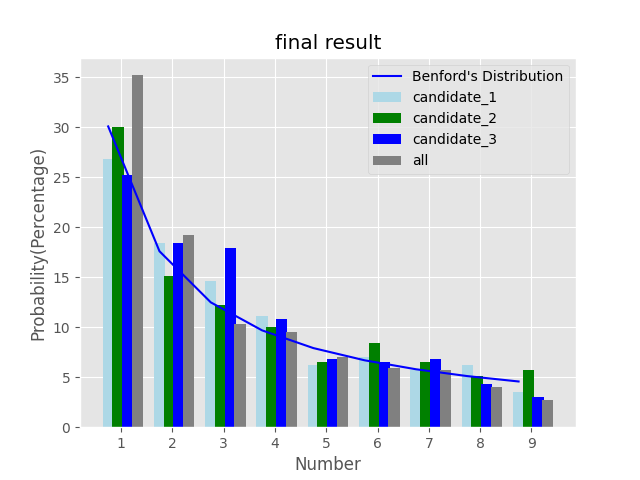
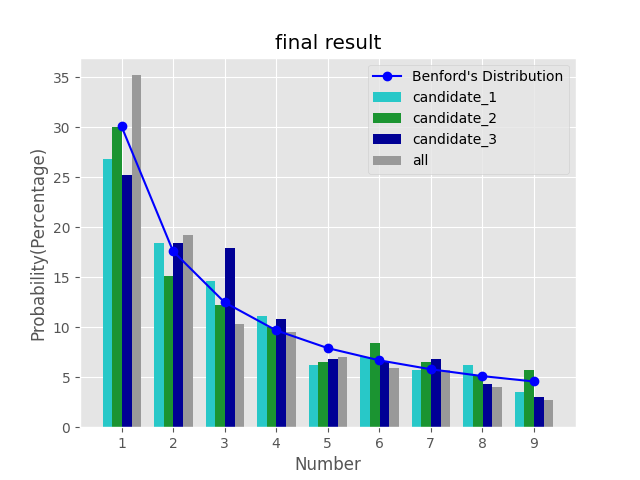
Add point at distribution lines and fixed bugs

Changed region(s): [[0.1562, 0.1562, 0.875, 0.9375], [0.5625, 0.1562, 0.625, 0.3438]]

diff --git a/by_districts.py b/by_districts.py
@@ -46,7 +46,7 @@ def plotting(data, benford_ls):
     x = [i for i in range(1, 10)]
 
     plt.style.use('ggplot')
-    plt.plot(x, benford_ls, label='Benford\'s Distribution', color='blue')
+    plt.plot(x, benford_ls, 'b-o', label='Benford\'s Distribution')
 
     y = data
     y.pop(0)
@@ -61,20 +61,20 @@ def plotting(data, benford_ls):
 def all_plotting(data, benford_ls):
     x = [i for i in range(1, 10)]
     xp = np.arange(len(x))
-    colors = ['lightblue', 'green', 'blue', 'grey']
+    colors = ['#28C8C8', '#1B9431', '#000095', '#999999']
     lables = ['candidate_1', 'candidate_2', 'candidate_3', 'all']
     width = 0.125
     plt.style.use('ggplot')
-    plt.plot(xp, benford_ls, label='Benford\'s Distribution', color='blue')
+    plt.plot(xp, benford_ls, 'b-o', label='Benford\'s Distribution')
     
     for i in range(0, 4):
         y = data[i]
-        plt.bar(xp + (width + 0.065) * i, y, width + 0.095, color = colors[i], label = lables[i])
+        plt.bar(xp + width * 1.5 * (i - 1.2) - 0.05, y, width * 1.5, color = colors[i], label = lables[i])
 
     plt.title('final result')
     plt.xlabel('Number')
     plt.ylabel('Probability(Percentage)')
-    plt.xticks(xp + width * 2, x)
+    plt.xticks(xp, x)
     plt.legend()
     plt.show()
 
